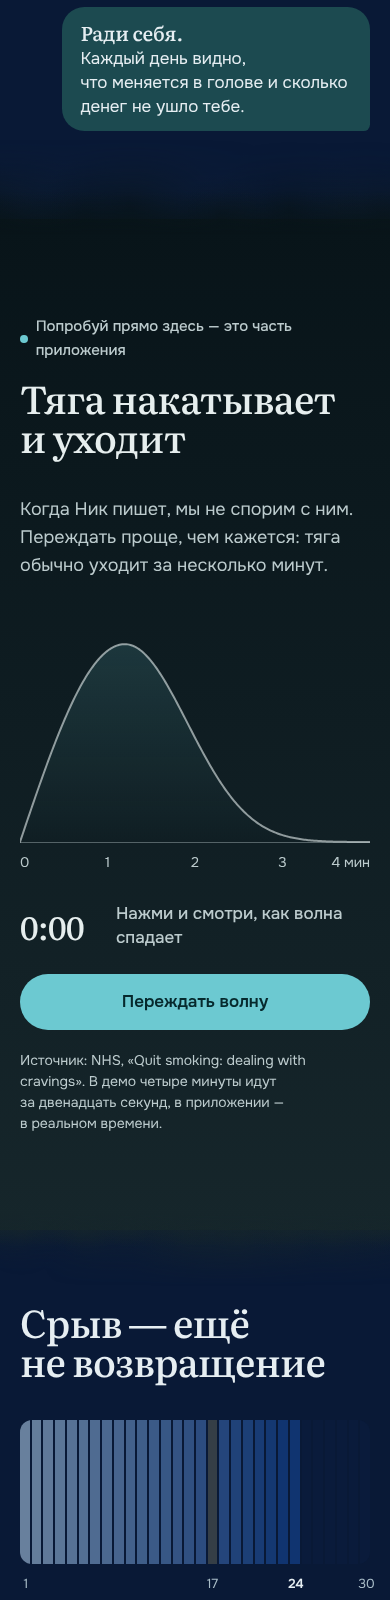
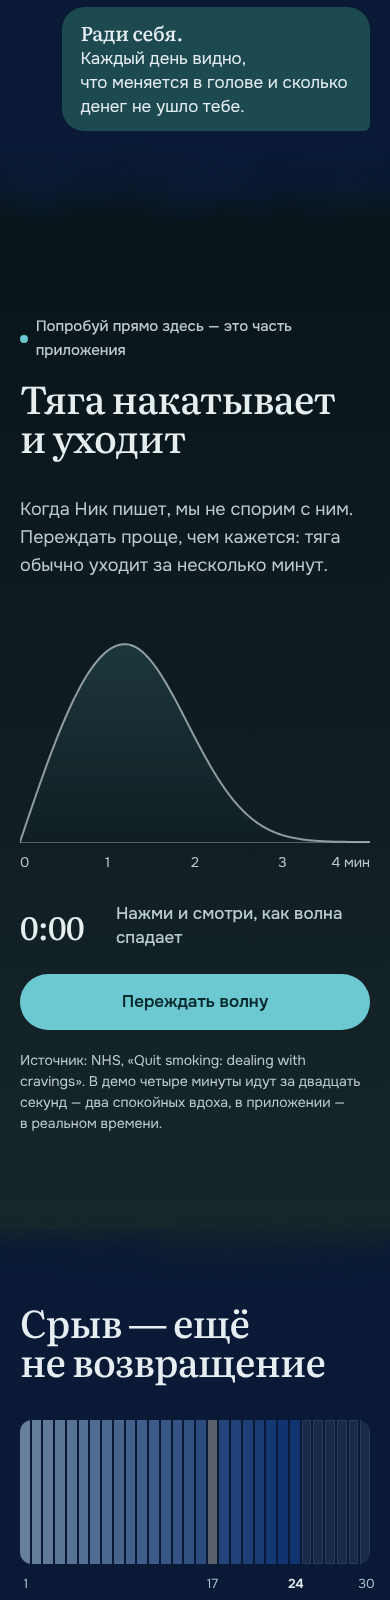
v8 round 6: fix moon halo banding, dark hero seam, wave timing, quiz next button
The moon rectangle came from a 220px box-shadow, not a filter; the glow now
lives in a radial gradient. Wave demo spans exactly two breathing cycles.
Quiz keeps a visible Next once an answer exists; privacy line made truthful.

Claude-Session: https://claude.ai/code/session_01CKqe4UyzFgn5AFv8yWGEaJ

diff --git a/design/directions/v8.html b/design/directions/v8.html
@@ -66,7 +66,7 @@
   --storm-top:#081419;--storm-low:#16262B;color-scheme:dark}
 
 *{box-sizing:border-box;margin:0;padding:0}
-html{-webkit-tap-highlight-color:transparent;-webkit-text-size-adjust:100%;overscroll-behavior-y:none;background:var(--sky-wash)}
+html{-webkit-tap-highlight-color:transparent;-webkit-text-size-adjust:100%;background:var(--sky-wash)}
 body{color:var(--text);font-family:var(--f-body);font-size:1.0625rem;line-height:1.55;font-feature-settings:"kern","liga"}
 button,a,[role="button"],input,summary{touch-action:manipulation}
 button{font:inherit;color:inherit;border:0;background:none;cursor:pointer;user-select:none;-webkit-user-select:none}
@@ -98,17 +98,18 @@ main,footer{position:relative;z-index:1}
 .hero{position:relative;min-height:100svh;overflow:hidden;isolation:isolate;color:var(--ink);touch-action:pan-y}
 .sun{position:absolute;z-index:-3;pointer-events:none;border-radius:50%;
   left:var(--sx,82%);top:var(--sy,22%);width:var(--sr,15vmax);aspect-ratio:1;translate:-50% -50%;
-  background:radial-gradient(circle,#FFF3CF 0%,var(--sun-core) 30%,var(--sun) 70%,color-mix(in srgb,var(--sun) 80%,#FFF3CF) 100%);box-shadow:0 0 3px 1px color-mix(in srgb,var(--sun) 70%,#fff),0 0 60px 20px rgba(255,236,170,.5),0 0 220px 90px rgba(255,248,228,.28);
+  background:radial-gradient(circle,#FFF3CF 0%,var(--sun-core) 30%,var(--sun) 70%,color-mix(in srgb,var(--sun) 80%,#FFF3CF) 100%);box-shadow:0 0 3px 1px color-mix(in srgb,var(--sun) 70%,#fff),0 0 40px 10px rgba(255,236,170,.45);
   transition:transform 1.2s var(--ease-out);transform:translateY(var(--sun-hide,30%)) scale(.92)}
 .sun::before{content:"";position:absolute;inset:-110%;border-radius:50%;z-index:-1;
-  background:radial-gradient(circle closest-side,rgba(255,240,200,.5) 0%,rgba(255,248,230,.18) 45%,rgba(255,255,255,0) 100%);mix-blend-mode:screen;
+  background:radial-gradient(circle closest-side,rgba(255,240,200,.55) 0%,rgba(255,244,215,.3) 30%,rgba(255,248,230,.1) 60%,rgba(255,248,230,0) 100%);
   opacity:.25;transform:scale(.85);transition:opacity 1.2s var(--ease-out),transform 1.2s var(--ease-out)}
 .hero.free .sun{transform:translate(var(--sun-fx,0),var(--sun-fy,0));transition:transform .9s cubic-bezier(.22,1,.36,1) .06s}
-.who{transition:opacity .3s ease}.hero.free .who{opacity:0;transition-duration:.15s;transition-delay:.06s}
+.who{transition:opacity .2s var(--ease-out)}.hero.free .who{opacity:0;transition-duration:.15s;transition-delay:.06s}
 
 .hero.free .sun::before{opacity:1;transform:none}
 .hero.dragging{user-select:none;-webkit-user-select:none}
 #smog{position:absolute;inset:0;width:100%;height:100%;z-index:-1;pointer-events:none}
+.hero::after{content:"";position:absolute;inset:auto 0 0;height:22vh;z-index:1;pointer-events:none;background:linear-gradient(in oklab 180deg,transparent,var(--sky-wash))}
 .hero.free #smog{opacity:0;transition:opacity .25s ease-out .55s}
 
 header.top{position:absolute;inset:0 0 auto 0;z-index:3;padding-top:env(safe-area-inset-top)}
@@ -140,14 +141,14 @@ header.top .wrap{display:flex;justify-content:space-between;align-items:center;h
 .btn svg{width:1.15rem;height:1.15rem;flex:none}
 .btn-act{background:var(--act);color:var(--act-text);box-shadow:inset 0 1px 0 rgba(255,255,255,.18)}
 .btn-ghost{color:var(--text);box-shadow:inset 0 0 0 1.5px var(--control)}
-.hint{display:flex;align-items:center;gap:.55rem;font-weight:500;font-size:.9375rem;opacity:0;transform:translateY(.25rem);transition:opacity .3s ease,transform .3s var(--ease-out)}
+.hint{display:flex;align-items:center;gap:.55rem;font-weight:500;font-size:.9375rem;opacity:0;transform:translateY(.25rem);transition:opacity .2s var(--ease-out),transform .2s var(--ease-out)}
 .hint.on{opacity:1;transform:none}
 .hint svg{width:1.4rem;height:1.4rem;flex:none}
 
 /* Переписка с Ником */
 .stage{grid-column:2;grid-row:1;margin-top:-4vh}
 .thread{width:100%;max-width:25rem}
-.who{display:flex;align-items:center;gap:.6rem;margin:0 0 .7rem .1rem;color:var(--ink);opacity:0;transition:opacity .3s ease}
+.who{display:flex;align-items:center;gap:.6rem;margin:0 0 .7rem .1rem;color:var(--ink);opacity:0;transition:opacity .2s var(--ease-out)}
 .who.in{opacity:1}
 .av{width:2.25rem;height:2.25rem;border-radius:50%;background:var(--nick);color:var(--nick-text);display:grid;place-items:center;font:600 .875rem/1 var(--f-body);box-shadow:0 0 0 2px rgba(255,255,255,.55)}
 .who b{font-weight:600;font-size:.9375rem}
@@ -205,7 +206,8 @@ input[type=range]::-moz-range-track{height:.375rem;border-radius:1rem;background
 input[type=range]::-moz-range-progress{height:.375rem;border-radius:1rem;background:currentColor}
 input[type=range]::-webkit-slider-thumb{-webkit-appearance:none;width:1.75rem;height:1.75rem;border-radius:50%;background:var(--act);border:0;margin-top:-.75rem;
   box-shadow:inset 0 0 0 4px #fff,0 0 0 1px var(--act),0 2px 8px rgba(6,36,63,.25);transition:transform .14s var(--ease-out)}
-input[type=range]::-moz-range-thumb{width:1.75rem;height:1.75rem;border:0;border-radius:50%;background:#fff;box-shadow:0 0 0 1px rgba(0,0,0,.08),0 2px 6px rgba(0,0,0,.22)}
+input[type=range]::-moz-range-thumb{width:1.75rem;height:1.75rem;border:0;border-radius:50%;background:var(--act);box-shadow:inset 0 0 0 4px #fff,0 0 0 1px var(--act),0 2px 8px rgba(6,36,63,.25);transition:transform .14s var(--ease-out)}
+input[type=range]:active::-moz-range-thumb{transform:scale(1.08)}
 input[type=range]:active::-webkit-slider-thumb{transform:scale(1.08)}
 input[type=range]:focus-visible{outline:none}
 input[type=range]:focus-visible::-webkit-slider-thumb{box-shadow:0 0 0 2px var(--sky-wash),0 0 0 4px var(--act),0 2px 6px rgba(0,0,0,.22)}
@@ -256,6 +258,8 @@ input[type=range]:focus-visible::-moz-range-thumb{box-shadow:0 0 0 2px var(--sky
 .strip i{position:relative;background:color-mix(in oklab,var(--sky-mid) calc(var(--k) * 100%),#9AAAB3)}
 .strip i.miss{background:var(--nick)}
 .strip i.next{background:color-mix(in oklab,var(--sky-mid) 10%,transparent)}
+@media (prefers-color-scheme:dark){:root:not([data-theme=light]) .strip i.next{background:#1A2A4A;box-shadow:inset 0 0 0 1px rgba(255,255,255,.08)}:root:not([data-theme=light]) .strip i.miss{background:#5A636B}}
+:root[data-theme=dark] .strip i.next{background:#1A2A4A;box-shadow:inset 0 0 0 1px rgba(255,255,255,.08)}:root[data-theme=dark] .strip i.miss{background:#5A636B}
 .strip-n span.now{color:var(--text);font-weight:600}.strip-n span.now{position:relative}.strip-n span.now::after{content:"сегодня";position:absolute;left:50%;top:1.5em;translate:-50% 0;font-weight:400;color:var(--muted)}.strip-n{padding-bottom:1.4em}
 .strip-n{display:grid;grid-template-columns:repeat(30,minmax(0,1fr));margin-top:.6rem;font-size:.8125rem;color:var(--muted)}
 .strip-n span{text-align:center;white-space:nowrap}
@@ -290,7 +294,7 @@ input[type=range]:focus-visible::-moz-range-thumb{box-shadow:0 0 0 2px var(--sky
 @media (max-width:1100px){.year-row{grid-template-columns:minmax(0,1fr)}}
 .year-note{font-size:clamp(1.125rem,1.6vw,1.375rem);margin-top:1.25rem;max-width:40rem;text-wrap:pretty}
 .bridge{margin-top:clamp(2.5rem,5vw,4rem);padding-top:1.5rem;border-top:1px solid var(--rule);font:500 clamp(1.375rem,2.1vw,1.75rem)/1.3 var(--f-display);letter-spacing:-.01em;max-width:36rem;text-wrap:pretty}
-.bridge em{color:var(--act)}
+.bridge em{font-style:normal;color:var(--muted)}
 
 /* ── Цена ── */
 .price{display:grid;grid-template-columns:minmax(0,5fr) minmax(0,6fr);gap:2.5rem clamp(2.5rem,6vw,6rem);align-items:start}
@@ -318,7 +322,7 @@ input[type=range]:focus-visible::-moz-range-thumb{box-shadow:0 0 0 2px var(--sky
 .faq details p{color:var(--muted);padding:0 2.5rem 1.25rem 0;max-width:40rem;text-wrap:pretty}
 
 /* ── Финал ── */
-.final{position:relative;color:var(--ink);text-align:center;background:linear-gradient(in oklab 180deg,transparent 0,var(--sky-low) 10rem,var(--sky-mid) 60%,var(--sky-top))}
+.final{position:relative;color:var(--ink);text-align:center;background:linear-gradient(in oklab 180deg,transparent 0,var(--sky-low) 10rem,var(--sky-mid) 55%,var(--sky-top) 82%,var(--bg))}
 html[data-sky="clear"] footer{background:var(--sky-top);color:var(--ink)}
 html[data-sky="clear"] footer .brand{color:var(--ink)}
 .final .wrap{display:flex;flex-direction:column;align-items:center;padding-block:clamp(7rem,16vw,12rem) clamp(5rem,10vw,8rem)}
@@ -350,6 +354,8 @@ dialog.plan.in::backdrop{background:rgba(6,36,63,.28)}
 .pl-top{position:relative;touch-action:none;display:flex;align-items:center;justify-content:space-between;gap:1rem;padding:.75rem .75rem 0}
 .icon-btn{width:2.75rem;height:2.75rem;border-radius:50%;display:grid;place-items:center;color:var(--muted);transition:background-color .15s ease,opacity .15s ease}
 .icon-btn svg{width:1.25rem;height:1.25rem}
+.icon-btn:active{background:var(--surface-2)}
+@media (hover:hover) and (pointer:fine){.icon-btn:hover{background:var(--surface-2)}}
 .icon-btn[hidden]{display:grid;visibility:hidden}
 .prog{flex:1;display:grid;grid-template-columns:repeat(4,1fr);gap:.35rem;max-width:9rem}
 .prog[hidden]{display:grid;visibility:hidden}
@@ -390,9 +396,10 @@ dialog.plan.in::backdrop{background:rgba(6,36,63,.28)}
 .pl-foot .btn[hidden]{display:none}
 .pl-foot .btn.soon{background:transparent;color:var(--text);box-shadow:inset 0 0 0 1.5px var(--control)}
 .pl-msg{min-height:1.4rem;font-size:.875rem;color:var(--muted);text-align:center;text-wrap:balance}
-.pl-msg:empty::before{content:"Ответы остаются в этом браузере."}
+.pl-msg:empty::before{content:"Ответы никуда не отправляются."}
 
 @media (max-width:860px){
+  dialog.plan::backdrop{transition:background-color .28s var(--ease-drawer)}
   .hero-inner{grid-template-columns:minmax(0,1fr);grid-template-rows:auto auto;align-content:start;column-gap:0;padding-top:calc(5.25rem + env(safe-area-inset-top));padding-bottom:2.5rem}
   .stage{grid-column:1;grid-row:1;margin-top:0;min-height:max(13rem,33svh);display:flex;flex-direction:column;justify-content:flex-start}
   .thread{max-width:none}
@@ -514,11 +521,11 @@ dialog.plan.in::backdrop{background:rgba(6,36,63,.28)}
       <div class="axis-note" aria-hidden="true"><span style="left:0">0</span><span style="left:25%">1</span><span style="left:50%">2</span><span style="left:75%">3</span><span style="left:100%">4 мин</span></div>
     </figure>
     <div class="wave-ctl">
-      <button class="btn ride" id="ride">Переждать волну</button>
+      <button class="btn ride" id="ride" aria-describedby="wave-src">Переждать волну</button>
       <span class="wave-time" id="w-time" aria-hidden="true">0:00</span>
       <span class="wave-cue idle" id="w-cue" aria-live="polite">Нажми и&nbsp;смотри, как волна спадает</span>
     </div>
-    <p class="src">Источник: NHS, «Quit smoking: dealing with cravings». В&nbsp;демо четыре минуты идут за двенадцать секунд, в&nbsp;приложении — в&nbsp;реальном времени.</p>
+    <p class="src" id="wave-src">Источник: NHS, «Quit smoking: dealing with cravings». В&nbsp;демо четыре минуты идут за двадцать секунд — два спокойных вдоха, в&nbsp;приложении — в&nbsp;реальном времени.</p>
   </div>
 </section>
 
@@ -749,10 +756,11 @@ function draw(){
   const v = og.createLinearGradient(0, base - H, 0, base + R * .06); v.addColorStop(0, 'rgba(30,34,38,0)'); v.addColorStop(1, 'rgba(24,28,32,.5)'); og.fillStyle = v; og.fillRect(0, 0, W0, H0);
   const rg = og.createRadialGradient(sx, sy, sr * .5, sx, sy, sr * 2.6); rg.addColorStop(0, `rgba(${glow},.55)`); rg.addColorStop(.45, `rgba(${glow},.14)`); rg.addColorStop(1, `rgba(${glow},0)`); og.fillStyle = rg; og.fillRect(0, 0, W0, H0);
   og.globalCompositeOperation = 'destination-out';
-  const fd = og.createLinearGradient(0, base - R * .14, 0, base + R * .14); fd.addColorStop(0, 'rgba(0,0,0,0)'); fd.addColorStop(.6, 'rgba(0,0,0,.55)'); fd.addColorStop(1, 'rgba(0,0,0,1)'); og.fillStyle = fd; og.fillRect(0, base - R * .14, W0, H0);
+  const fk = mobile() ? .24 : .14, fd = og.createLinearGradient(0, base - R * fk, 0, base + R * .14); fd.addColorStop(0, 'rgba(0,0,0,0)'); fd.addColorStop(.6, 'rgba(0,0,0,.55)'); fd.addColorStop(1, 'rgba(0,0,0,1)'); og.fillStyle = fd; og.fillRect(0, base - R * fk, W0, H0);
   // Неровный низ: мягкие выемки разной глубины, иначе граница читается ровной линией на всю ширину
   let sq = 7; const sr2 = () => (sq = sq * 16807 % 2147483647) / 2147483647;
   for (let ex = -R * .1; ex < W0 + R * .2; ex += R * (.12 + sr2() * .16)) { const er = R * (.1 + sr2() * .14), ey = base + R * .02 - sr2() * R * .1, eg = og.createRadialGradient(ex, ey, 0, ex, ey, er); eg.addColorStop(0, 'rgba(0,0,0,.85)'); eg.addColorStop(1, 'rgba(0,0,0,0)'); og.fillStyle = eg; og.fillRect(ex - er, ey - er, er * 2, er * 2); }
+  if (mobile()) for (let ex = R * .03; ex < W0 + R * .2; ex += R * (.1 + sr2() * .14)) { const er = R * (.12 + sr2() * .14), ey = base - R * .06 - sr2() * R * .12, eg = og.createRadialGradient(ex, ey, 0, ex, ey, er); eg.addColorStop(0, 'rgba(0,0,0,.6)'); eg.addColorStop(1, 'rgba(0,0,0,0)'); og.fillStyle = eg; og.fillRect(ex - er, ey - er, er * 2, er * 2); }
   g2.setTransform(1, 0, 0, 1, 0, 0); g2.clearRect(0, 0, cv.width, cv.height); g2.drawImage(off, 0, 0);
   // Серебряная кайма: край облака со стороны солнца — облако минус то же облако, сдвинутое от солнца
   const cxm = W0 * .5, cym = base - H * .4, vl = Math.hypot(cxm - sx, cym - sy) || 1, ddx = (cxm - sx) / vl * 7, ddy = (cym - sy) / vl * 7;
@@ -888,7 +896,7 @@ function choose(si, b, advance = true){
 }
 const nextB = document.getElementById('pl-next'), backB = document.getElementById('pl-back'), msg = document.getElementById('pl-msg'), prog = document.getElementById('prog');
 const ready = () => at === 4 || (at === 2 ? answers[2].size > 0 : answers[at] !== null);
-function syncFoot(){ nextB.hidden = !(at === 2 || at === 4); document.getElementById('pay').hidden = at !== 4; nextB.setAttribute('aria-disabled', String(!ready())); nextB.textContent = at === 4 ? 'Готово' : at === 3 ? 'Показать план' : 'Дальше'; }
+function syncFoot(){ nextB.hidden = !(at === 2 || at === 4 || ready()); document.getElementById('pay').hidden = at !== 4; nextB.setAttribute('aria-disabled', String(!ready())); nextB.textContent = at === 4 ? 'Готово' : at === 3 ? 'Показать план' : 'Дальше'; }
 function show(i){
   const back = i < at; at = i; steps.forEach((s, k) => { s.hidden = k !== i; s.classList.remove('enter', 'back'); }); if (plan.open) { void steps[i].offsetWidth; steps[i].classList.add('enter'); if (back) steps[i].classList.add('back'); } backB.hidden = i === 0; msg.textContent = '';
   [...prog.children].forEach((p, k) => p.classList.toggle('on', k <= Math.min(i, 3))); prog.setAttribute('aria-valuenow', Math.min(i + 1, 4)); prog.setAttribute('aria-valuetext', 'Вопрос ' + Math.min(i + 1, 4) + ' из 4'); prog.hidden = i === 4;
@@ -998,7 +1006,7 @@ function placePing(){ const pw = ping.offsetWidth, x = .3 * WW, y = (WH - 2) - c
   ping.style.setProperty('--px', Math.min(WW - pw / 2, Math.max(pw / 2, x)) + 'px'); ping.style.setProperty('--py', y + 'px'); }
 waveResize(); addEventListener('resize', waveResize);
 let wState = 'idle', wT0 = 0, wPausedAt = 0;
-const D = 12000;
+const D = 20000; // ровно два цикла дыхания (4 с вдох + 6 с выдох): конец демо совпадает с концом выдоха
 function wStep(now){
   const p = Math.min(1, (now - wT0) / D); waveP = p; drawWave(p);
   ping.classList.toggle('off', p < .05 || p > .55);
@@ -1044,7 +1052,7 @@ function money(){
   const s = rub.format(d); document.getElementById('spend-v').textContent = s + ' в день'; spend.setAttribute('aria-valuetext', s + ' в день');
   year.textContent = rub.format(d * 365);
   const shoes = Math.ceil(12000 / d), sea = Math.ceil(60000 / d);
-  document.getElementById('year-note').textContent = 'Через ' + shoes + ' ' + dayWord(shoes) + ' — новые кроссовки. Через ' + (sea > 365 ? 'год с лишним' : sea + ' ' + dayWord(sea)) + ' — неделя у моря. За пять лет — ' + rub.format(d * 365 * 5) + '.';
+  document.getElementById('year-note').textContent = 'Через ' + shoes + ' ' + dayWord(shoes) + '\u00a0— новые кроссовки. Через ' + (sea > 365 ? 'год с лишним' : sea + ' ' + dayWord(sea)) + '\u00a0— неделя у\u00a0моря. За пять лет — ' + rub.format(d * 365 * 5) + '.';
   const dd = Math.max(1, Math.ceil(349 / d));
   document.getElementById('bridge').innerHTML = 'Подписка — 349 ₽ в месяц. <em>Меньше, чем Ник берёт с тебя за ' + (NUMW[dd] || dd + ' ' + dayWord(dd)) + '.</em>';
 }

diff --git a/docs/HANDOFF.md b/docs/HANDOFF.md
@@ -59,3 +59,18 @@
 - Нет тостов, фальшивых таймеров и выдуманных отзывов.
 - Нет реалистичного дыма или сигарет: смог — это погода, а не дым от сигареты.
 - Ник появляется только там, где перебивает разговор: hero, деньги, цена, «Волна», срыв, финал.
+
+## Раунд 6 (визуал 6.5, UX 7.5) — сделано
+- Прямоугольник вокруг луны: причина — огромная `box-shadow` (220px) у `.sun`, не фильтр. Свечение перенесено в радиальный градиент `::before` без `mix-blend-mode`.
+- Стык hero → следующая секция на тёмной теме: `.hero::after` 22vh в `--sky-wash`.
+- Низ облака на мобильном: длиннее затухание (`R*.24`) + второй ряд неровных выемок.
+- Волна: демо 20 с = ровно два цикла дыхания (4+6), конец на выдохе; подпись источника обновлена и связана с кнопкой через `aria-describedby`.
+- Опрос: «Дальше» видна всегда, когда ответ уже выбран (после «Назад» и выбора стрелками).
+- Ложная строка «Ответы остаются в этом браузере» → «Ответы никуда не отправляются».
+- Снят глобальный `overscroll-behavior-y:none`.
+- `.icon-btn`: `:active` и hover (под `hover:hover`). Ползунок в Firefox оформлен как в WebKit.
+- Подложка листа на мобильном — те же .28s `--ease-drawer`. `.hint`/`.who` — .2s ease-out.
+- Полоса «Срыв» на тёмной теме: будущие дни `#1A2A4A` с рамкой, день срыва `#5A636B`.
+- Копилка: неразрывные пробелы перед тире; строка про подписку без курсива.
+- Финал: градиент уходит в `--bg`, без среза.
+- Не сделано (открыто): выравнивание точек графика мозга с подписями недель, пустоты секций, тон фона «Волны», аватар Ника на 6px ниже пузыря.
